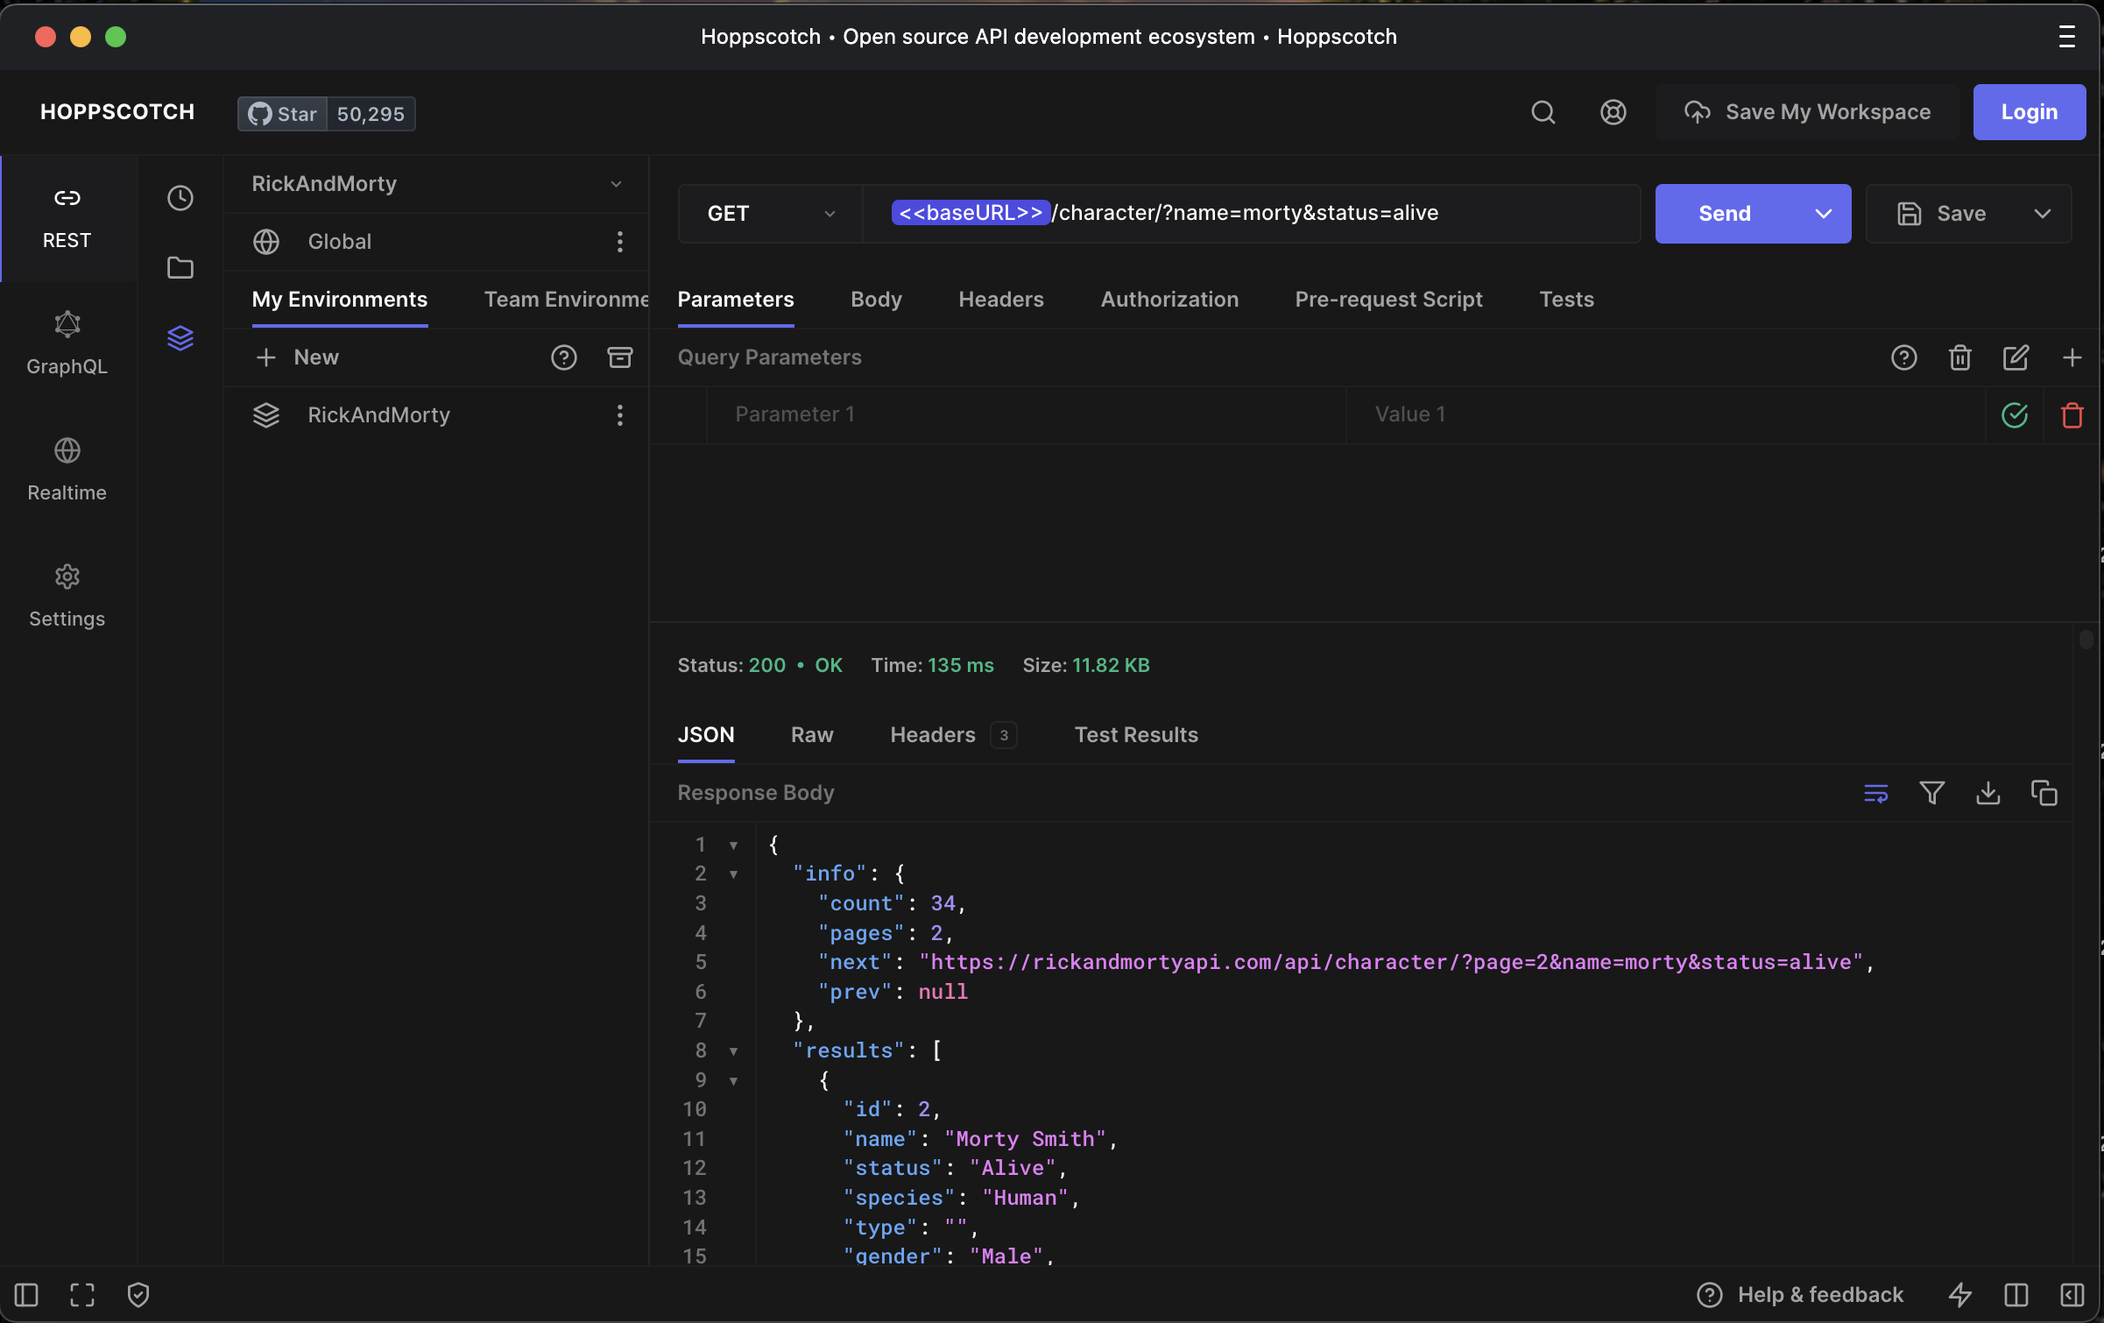
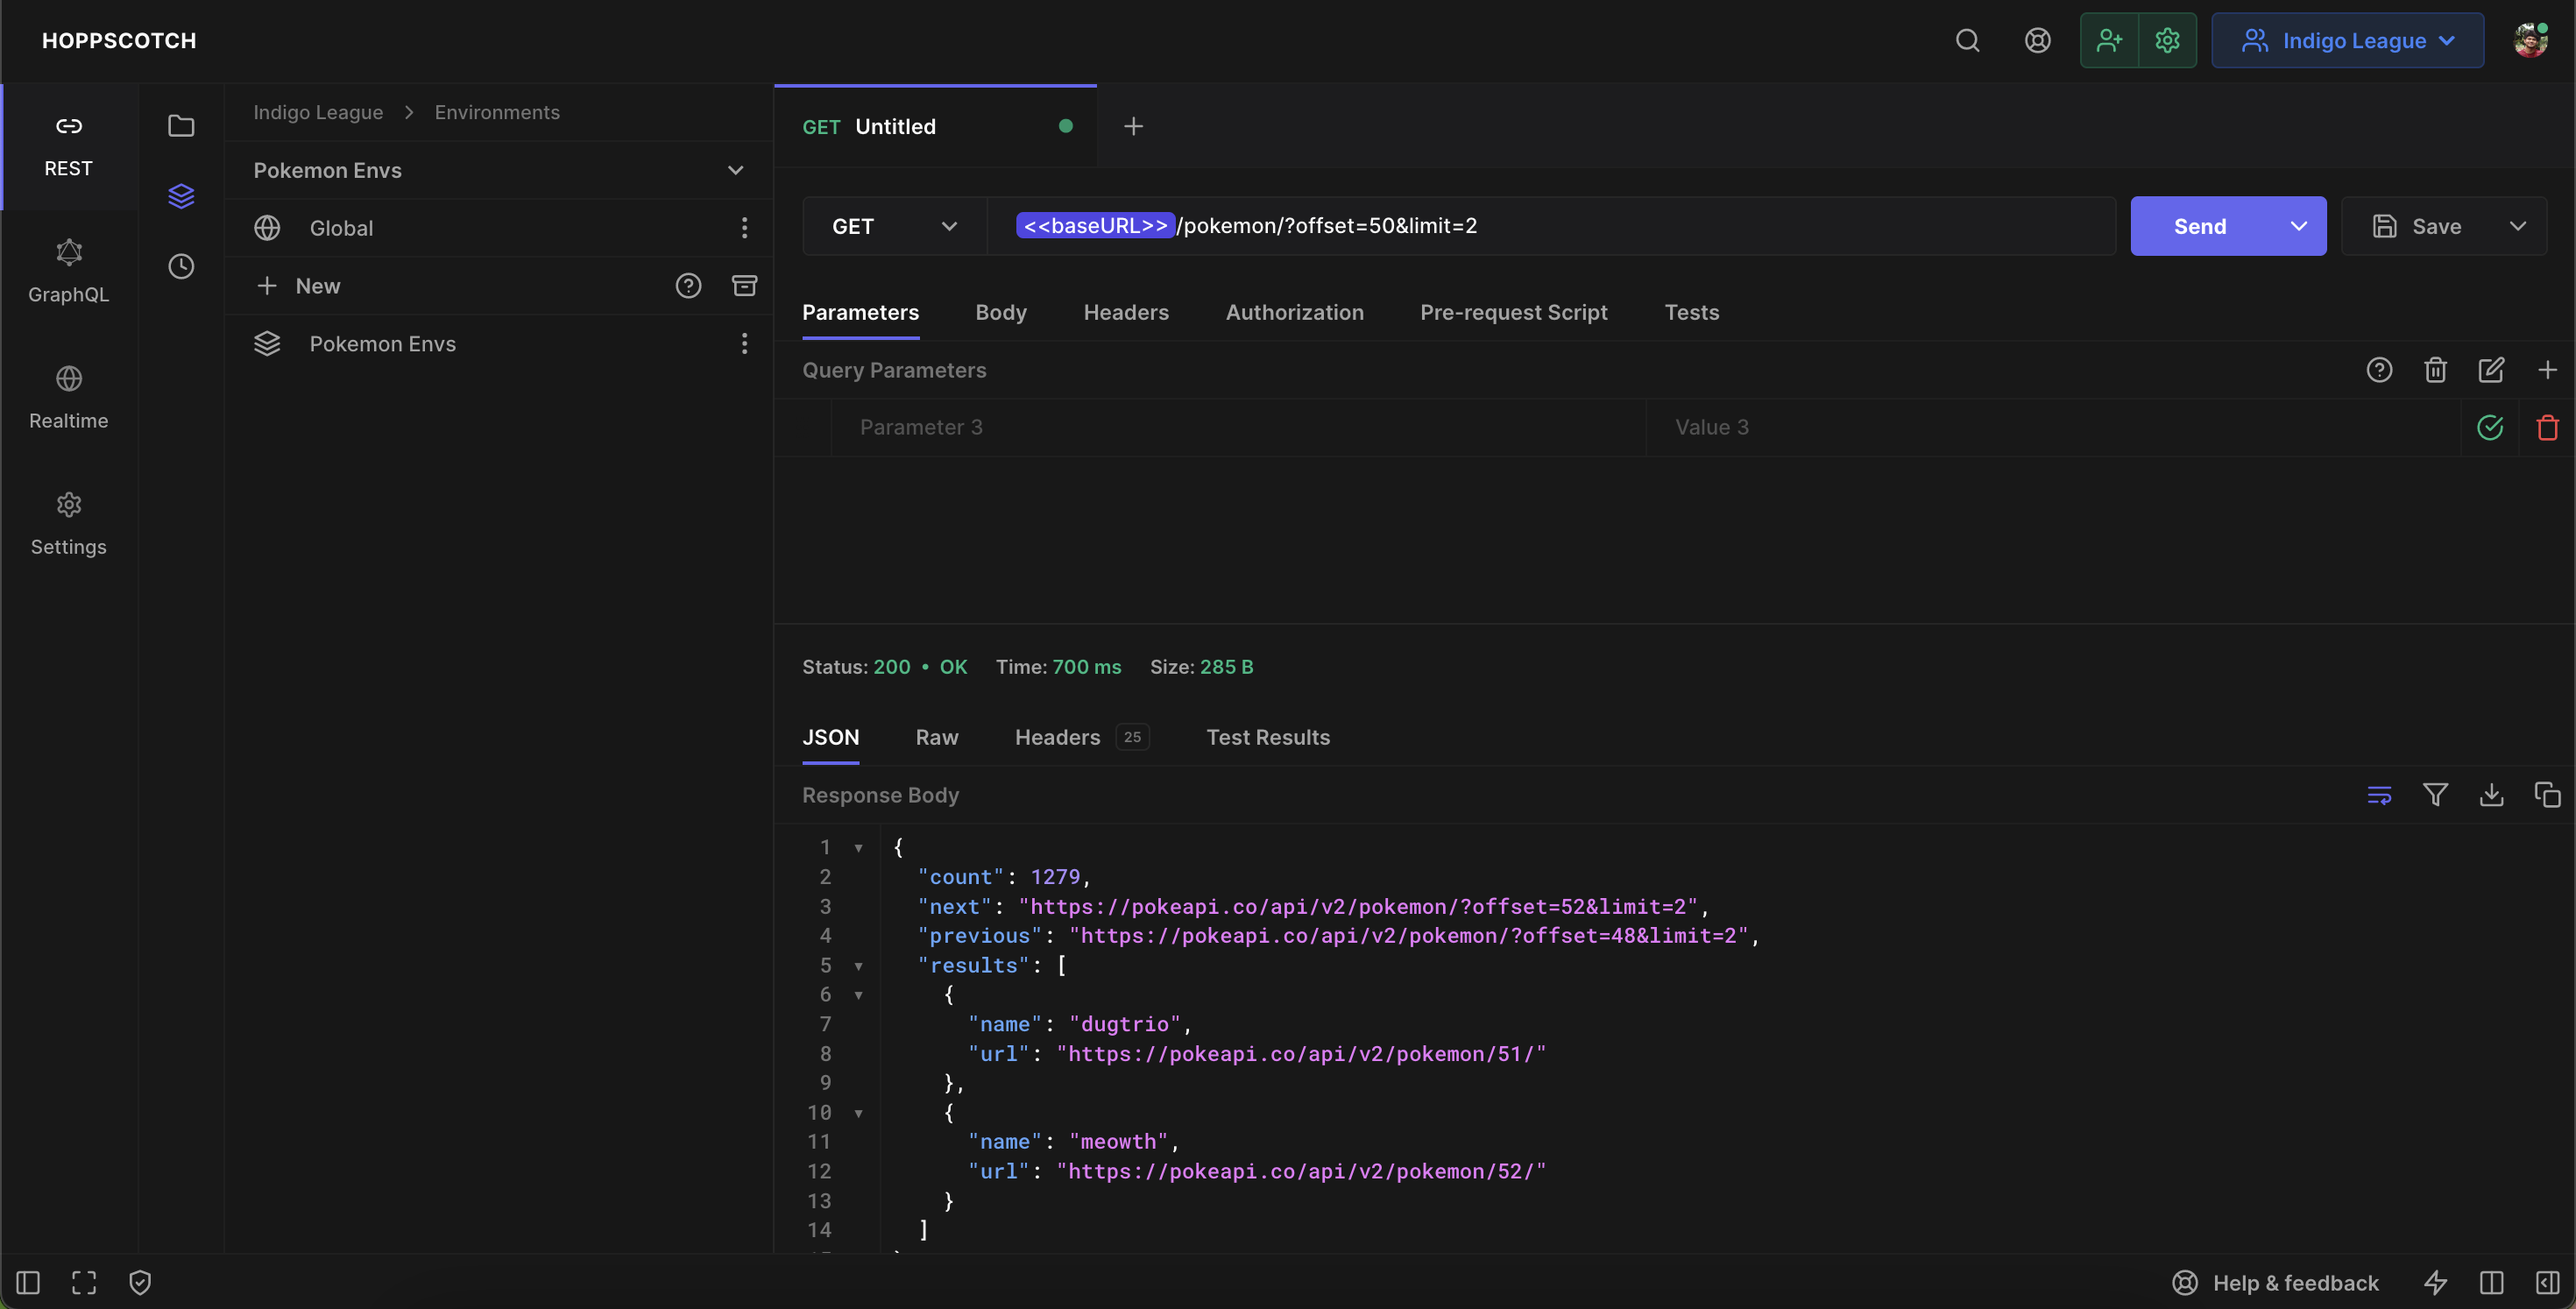
update rest and graphql endpoints

diff --git a/content/1.documentation/1.getting-started/2.rest/0.creating-a-request.md b/content/1.documentation/1.getting-started/2.rest/0.creating-a-request.md
@@ -19,63 +19,60 @@ Now try it yourself, copy the below API endpoint and create a request.
 https://echo.hoppscotch.io
 ```
 
-## Rick and Morty API
+## Pokemon API
 
 Let's try another API.
 
-We'll be using the Rick and Morty API, go ahead and create a `GET` request to the endpoint below:
+We'll be using the Pokemon API, go ahead and create a `GET` request to the endpoint below:
 
 ```text
-https://rickandmortyapi.com/api
+https://pokeapi.co/api/v2
 ```
 
 If your request was successful, then you should get a JSON response as shown below:
 
 ```json
 {
-  "characters": "https://rickandmortyapi.com/api/character",
-  "locations": "https://rickandmortyapi.com/api/location",
-  "episodes": "https://rickandmortyapi.com/api/episode"
+  "ability": "https://pokeapi.co/api/v2/ability/",
+  "berry": "https://pokeapi.co/api/v2/berry/",
+  ...
+  "pokedex": "https://pokeapi.co/api/v2/pokedex/",
+  "pokemon": "https://pokeapi.co/api/v2/pokemon/",
+  ...
+  "version-group": "https://pokeapi.co/api/v2/version-group/"
 }
 ```
 
-The Rick and Morty API has returned us three new API endpoints or URLs, let's pick the characters URL and explore it.
+The Pokemon API has returned us three new API endpoints or URLs, let's pick the characters URL and explore it.
 
-Now, let's create a `GET` request to the characters URL, append `/character` to the URL you already have on Hoppscotch or copy paste the URL below:
+Now, let's create a `GET` request to the characters URL, append `/pokemon` to the URL you already have on Hoppscotch or copy paste the URL below:
 
 ```text
-https://rickandmortyapi.com/api/character
+https://pokeapi.co/api/v2/pokemon
 ```
 
 The API should have returned a huge amount of data, something similar to the one below:
 
 ```json
 {
-  "info": {
-    "count": 826,
-    "pages": 42,
-    "next": "https://rickandmortyapi.com/api/character?page=2",
-    "prev": null
-  },
-"results": [
+  "count": 1279,
+  "next": "https://pokeapi.co/api/v2/pokemon?offset=20&limit=20",
+  "previous": null,
+  "results": [
     {
-      "id": 1,
-      "name": "Rick Sanchez",
-      "status": "Alive",
-      "species": "Human",
-      "type": "",
-      "gender": "Male",
-      "origin": {
-        "name": "Earth (C-137)",
-        "url": "https://rickandmortyapi.com/api/location/1"
-      },
-      ...
-      ...
-    }
+      "name": "bulbasaur",
+      "url": "https://pokeapi.co/api/v2/pokemon/1/"
+    },
+    {
+      "name": "ivysaur",
+      "url": "https://pokeapi.co/api/v2/pokemon/2/"
+    },
+    ...
+    ...
 }
 ```
 
-Try experimenting with the `/location` and `/episode` endpoints as well.
+Try experimenting with the `/pokedex`, `/berry` and the other sendpoints as well.
 
 ::card{icon="lucide:skip-forward"}
 #title

diff --git a/content/1.documentation/1.getting-started/2.rest/1.using-parameters.md b/content/1.documentation/1.getting-started/2.rest/1.using-parameters.md
@@ -21,48 +21,33 @@ To add a parameter in the URL, append `?` at the end of the URL and add a parame
 
 You can add multiple parameters by separating them using `&`.
 
-For example, the below URL is filtered to get the data of characters with the name morty and who's satus is alive.
+For example, the below URL is filtered to get the data of the first three pokemon
 
 ```text
-https://rickandmortyapi.com/api/character/?name=morty&status=alive
+https://pokeapi.co/api/v2/pokemon/?offset=0&limit=3
 ```
 
 For which you will get a similar response:
 
 ```json
 {
-  "info": {
-    "count": 34,
-    "pages": 2,
-    "next": "https://rickandmortyapi.com/api/character/?page=2&name=morty&status=alive",
-    "prev": null
-  },
+  "count": 1279,
+  "next": "https://pokeapi.co/api/v2/pokemon/?offset=3&limit=3",
+  "previous": null,
   "results": [
     {
-      "id": 18,
-      "name": "Antenna Morty",
-      "status": "Alive",
-      "species": "Human",
-      "type": "Human with antennae",
-      "gender": "Male",
-      "origin": {
-        "name": "unknown",
-        "url": ""
-      },
-      "location": {
-        "name": "Citadel of Ricks",
-        "url": "https://rickandmortyapi.com/api/location/3"
-      },
-      "image": "https://rickandmortyapi.com/api/character/avatar/18.jpeg",
-      "episode": [
-        "https://rickandmortyapi.com/api/episode/10",
-        "https://rickandmortyapi.com/api/episode/28"
-      ],
-      "url": "https://rickandmortyapi.com/api/character/18",
-      "created": "2017-11-04T22:25:29.008Z"
+      "name": "bulbasaur",
+      "url": "https://pokeapi.co/api/v2/pokemon/1/"
     },
-    ...
-    ...
+    {
+      "name": "ivysaur",
+      "url": "https://pokeapi.co/api/v2/pokemon/2/"
+    },
+    {
+      "name": "venusaur",
+      "url": "https://pokeapi.co/api/v2/pokemon/3/"
+    }
+  ]
 }
 ```
 

diff --git a/content/1.documentation/1.getting-started/3.graphql/0.creating-a-query.md b/content/1.documentation/1.getting-started/3.graphql/0.creating-a-query.md
@@ -24,27 +24,30 @@ Furthermore, you can run the query to fetch data as shown below:
 
 ![Running GraphQL Query](/getting-started/graphql/graphql-run-and-disconnect.gif)
 
-## Rick and Morty GraphQL endpoint
+## Naruto GraphQL endpoint
 
-Let's explore the Rick and Morty GraphQL endpoint.
+Let's explore the Naruto GraphQL endpoint.
 
 1. Open Hoppscotch and connect to the endpoint below:
 
-    ```text
-    https://rickandmortyapi.com/graphql
-    ```
+```text
+https://narutoql.up.railway.app/graphql
+```
 
 2. Explore the schema and documentation to understand more about the endpoint.
-3. Write a query `getCharacter` to get the character details associated with an id.
+3. Write a query to get the character details who's name contains `hatake`
 
-    ```graphql
-    query getCharacter {
-      character(id: "2") {
-        id
-        name
-      }
+```graphql
+ {
+  characters(filter: {name: "hatake"}) {
+    results {
+     _id
+      name
+      village
     }
-    ```
+  }
+ }
+```
 
 4. Click on the run button to execute the query.
 5. The query will return the following response.
@@ -52,15 +55,25 @@ Let's explore the Rick and Morty GraphQL endpoint.
 ```graphql
 {
   "data": {
-    "character": {
-      "id": "2",
-      "name": "Morty Smith"
+    "characters": {
+      "results": [
+        {
+          "_id": "61bd1dbc918f12c17b9c64b5",
+          "name": "Hatake Kakashi",
+          "village": "leaf village"
+        },
+        {
+          "_id": "61bd1dbc918f12c17b9c64b6",
+          "name": "Hatake Sakumo",
+          "village": "leaf village"
+        }
+      ]
     }
   }
 }
 ```
 
-![Rick and Morty GraphQL Query](/getting-started/graphql/rick-and-morty-query.png)
+![Naruto GraphQL Query](/getting-started/graphql/naruto-query.png)
 
 ::card{icon="lucide:skip-forward"}
 #title

diff --git a/content/1.documentation/1.getting-started/3.graphql/1.using-variables.md b/content/1.documentation/1.getting-started/3.graphql/1.using-variables.md
@@ -6,7 +6,7 @@ title: Using variables
 
 Hoppscotch allows you to pass variables in the query to fetch data dynamically.
 
-To demonstrate the use of variables lets write a query to get the episode details of episode name `Close Rick-counters of the Rick Kind` (id=10).
+To demonstrate the use of variables lets write a query to get the Ninja who's id is `61bd1dbc918f12c17b9c6483`
 
 ## Variables
 
@@ -14,21 +14,22 @@ Goto the variables section and define the variable.
 
 ```graphql
 {
-  "id": "10"
+  "id": "61bd1dbc918f12c17b9c6483"
 }
 ```
 
 ## Using the variable in the query
 
-Now create a query `getEpisode` with variables as shown below:
+Now create a query `getCharacter` with variables as shown below:
 
 ```graphql
-query getEpisode($id: ID!) {
-  episode(id: $id) {
-    id
+ query getCharacter($id:String!){
+  character(id:$id) {
     name
-    air_date
-    episode
+    avatarSrc
+    rank
+    description
+    village
   }
 }
 ```
@@ -38,14 +39,14 @@ Hoppscotch will retrieve the value of the variable and exeute the query to get t
 ```graphql
 {
   "data": {
-    "episode": {
-      "id": "10",
-      "name": "Close Rick-counters of the Rick Kind",
-      "air_date": "April 7, 2014",
-      "episode": "S01E10"
+    "character": {
+      "name": "Aburame Shibi",
+      "avatarSrc": "https://narutoql.s3.amazonaws.com/Aburame2.jpg",
+      "rank": "Jounin",
+      "description": "Aburame Shibi is the father of Aburame Shino. Like his son, his body is also inhabited by the destruction bugs.",
+      "village": "leaf village"
     }
   }
 }
 ```
-
-![Rick and Morty GraphQL Query](/getting-started/graphql/rick-and-morty-variables.png)
+![Naruto GraphQL Query](/getting-started/graphql/naruto-variables.png)

diff --git a/content/1.documentation/1.getting-started/2.rest/2.organizing-your-requests.md b/content/1.documentation/1.getting-started/2.rest/2.organizing-your-requests.md
@@ -10,18 +10,16 @@ It is always a best practice to organize your requests when you test multiple AP
 
 You can create a new collection on Hoppscotch by clicking the collections icon on the sidebar and clicking the `new` button.
 
-Let's try making a collection for our [Rick and Morty API](https://rickandmortyapi.com) called `Rick&Morty`.
-
-![Create a collection](/getting-started/rest/create-collection.gif)
+Let's try making a collection for our [Pokemon API](https://pokeapi.co/api/v2/) called `Pokemon API`.
 
 ## Adding requests to a collection
 
-Now, let's save our current query as `GET All Alive Mort-ies` and save it in our `Rick&Morty` Collection.
+Now, let's save our current query as `GET three pokemon` and save it in our `Pokemon API` Collection.
 
 - Click on the `Save` button
 - Give your request a name
 - Add it to your collection
 
-![Saving a request](/getting-started/rest/saving-a-request.gif)
+![Collections](/getting-started/rest/collections.gif)
 
 You can add multiple requests to a collection and even create subfolders inside a collection to further organize your requests.

diff --git a/content/1.documentation/1.getting-started/2.rest/3.environment-variables.md b/content/1.documentation/1.getting-started/2.rest/3.environment-variables.md
@@ -18,9 +18,9 @@ By storing a value in a variable:
 
 ## Adding environment variables
 
-You can create a new environment by clicking the environments icon on the sidebar and clicking the `new` button. Let's label the environment as `RickAndMorty`.
+You can create a new environment by clicking the environments icon on the sidebar and clicking the `new` button. Let's label the environment as `Pokemon Envs`.
 
-Now, let's create an environment variable called `baseURL` pointing to `https://rickandmortyapi.com/api`.
+Now, let's create an environment variable called `baseURL` pointing to `https://pokeapi.co/api/v2`.
 
 ![Adding environment variables](/getting-started/rest/adding-env-variables.gif)
 
